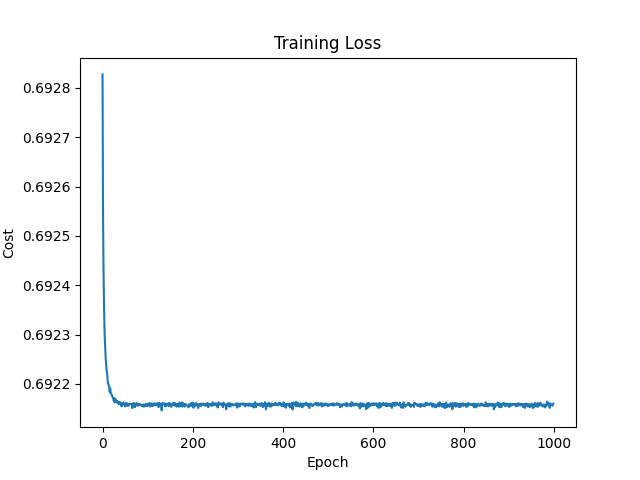
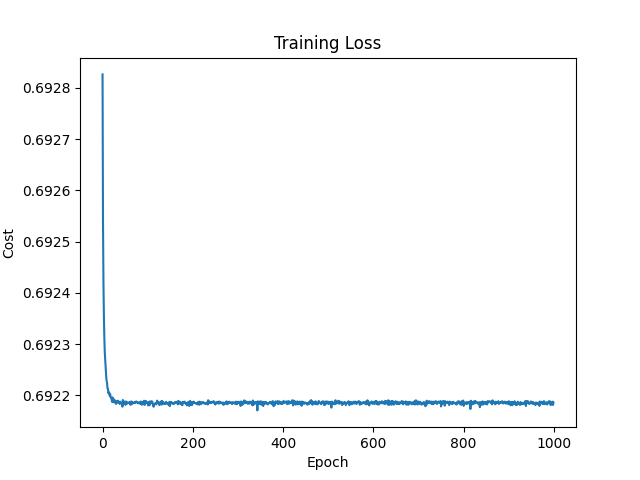
add tf idf to embeddings

diff --git a/trading_sentiment_analysis/train/model.py b/trading_sentiment_analysis/train/model.py
@@ -5,7 +5,10 @@ from trading_sentiment_analysis.train.cost import batch_gradient_descent
 from trading_sentiment_analysis.train.feature import extract_features_idf
 from trading_sentiment_analysis.train.normalization import normalize, normalize_with_mean_var
 from trading_sentiment_analysis.embeddings.glove import GloVeEmbeddings
-from trading_sentiment_analysis.embeddings.embedding_feature import extract_features_glove_batch
+from trading_sentiment_analysis.embeddings.embedding_feature import (
+    extract_features_glove_batch,
+    extract_features_glove_tfidf_batch
+)
 
 
 class RegressionModel:
@@ -186,3 +189,76 @@ class RegressionModel:
         self.mean = mean_var['mean']
         self.var = mean_var['var']
         print(f"Embedding model loaded from {model_file}")
+
+    def train_with_embeddings_tfidf(
+        self,
+        train_x,
+        train_y,
+        glove: GloVeEmbeddings,
+        idf_scores: dict,
+        learning_rate: float,
+        iterations: int,
+        batch_size: int = 1024
+    ):
+        """Train model using TF-IDF weighted embedding features.
+
+        Args:
+            train_x: List of headline strings
+            train_y: Labels (numpy array)
+            glove: Loaded GloVe embeddings
+            idf_scores: Dictionary mapping words to IDF scores
+            learning_rate: Learning rate for gradient descent
+            iterations: Number of training iterations
+            batch_size: Batch size for gradient descent
+
+        Returns:
+            (costs, weights): Training costs and final weights
+        """
+        print("Extracting TF-IDF weighted embedding features from training data...")
+
+        train_input, excluded = extract_features_glove_tfidf_batch(train_x, glove, idf_scores)
+
+        if len(excluded) > 0:
+            print(f"Excluded {len(excluded)} headlines with zero matches ({len(excluded)/len(train_x)*100:.2f}%)")
+            train_y = np.delete(train_y, excluded)
+
+        train_input, self.mean, self.var = normalize(train_input)
+
+        train_target = train_y.reshape(-1, 1)
+
+        print(f"Training input shape: {train_input.shape}")
+        print(f"Training label shape: {train_target.shape}")
+
+        costs, weights = batch_gradient_descent(
+            train_input, train_target, self.weights,
+            learning_rate, iterations, batch_size
+        )
+
+        self.weights = weights
+        return costs, weights
+
+    def predict_sentiments_with_embeddings_tfidf(
+        self,
+        headlines,
+        glove: GloVeEmbeddings,
+        idf_scores: dict
+    ):
+        """Predict sentiments using TF-IDF weighted embedding features.
+
+        Args:
+            headlines: List of headline strings
+            glove: Loaded GloVe embeddings
+            idf_scores: Dictionary mapping words to IDF scores
+
+        Returns:
+            Tuple of (predicted probabilities, excluded indices)
+        """
+        features, excluded = extract_features_glove_tfidf_batch(headlines, glove, idf_scores)
+
+        if len(excluded) > 0:
+            print(f"Warning: Excluded {len(excluded)} headlines with zero matches during prediction")
+
+        features = normalize_with_mean_var(features, self.mean, self.var)
+
+        predictions = self.predict(features)
+        return predictions, excluded

diff --git a/trading_sentiment_analysis/embeddings/test_embedding_feature.py b/trading_sentiment_analysis/embeddings/test_embedding_feature.py
@@ -6,6 +6,8 @@ from trading_sentiment_analysis.embeddings.glove import GloVeEmbeddings
 from trading_sentiment_analysis.embeddings.embedding_feature import (
     extract_features_glove,
     extract_features_glove_batch,
+    extract_features_glove_tfidf,
+    extract_features_glove_tfidf_batch,
     compute_coverage
 )
 
@@ -95,6 +97,53 @@ class EmbeddingFeatureTestCase(unittest.TestCase):
         self.assertEqual(total, 3)
         self.assertEqual(matched, 0)
         self.assertAlmostEqual(ratio, 0.0, places=2)
+
+    def test_extract_features_tfidf_normal(self):
+        """Test TF-IDF weighted feature extraction with known words."""
+        idf_scores = {'stock': 2.0, 'price': 1.5, 'rose': 1.0}
+        features = extract_features_glove_tfidf('Stock prices rose', self.glove, idf_scores)
+
+        self.assertIsNotNone(features)
+        self.assertEqual(features.shape, (1, 100))
+        self.assertEqual(features.dtype, np.float32)
+        self.assertFalse(np.all(features == 0))
+
+    def test_extract_features_tfidf_unknown_words(self):
+        """Test TF-IDF weighted extraction with all unknown words."""
+        idf_scores = {'unknown': 2.0}
+        features = extract_features_glove_tfidf('unknown xyzabc', self.glove, idf_scores)
+
+        self.assertIsNone(features)
+
+    def test_extract_features_tfidf_weighting(self):
+        """Test that TF-IDF weighting differs from mean pooling."""
+        idf_scores = {'stock': 5.0, 'price': 1.0}
+
+        mean_features = extract_features_glove('stock price', self.glove)
+        tfidf_features = extract_features_glove_tfidf('stock price', self.glove, idf_scores)
+
+        self.assertIsNotNone(mean_features)
+        self.assertIsNotNone(tfidf_features)
+        self.assertFalse(np.allclose(mean_features, tfidf_features))
+
+    def test_extract_features_tfidf_batch(self):
+        """Test batch TF-IDF weighted extraction."""
+        idf_scores = {'stock': 2.0, 'price': 1.5, 'rose': 1.0, 'fell': 1.2, 'market': 1.8}
+        headlines = ['stock rose', 'price fell', 'market']
+        features, excluded = extract_features_glove_tfidf_batch(headlines, self.glove, idf_scores)
+
+        self.assertEqual(features.shape, (3, 100))
+        self.assertEqual(len(excluded), 0)
+        self.assertEqual(features.dtype, np.float32)
+
+    def test_extract_features_tfidf_batch_with_exclusions(self):
+        """Test batch TF-IDF weighted extraction with zero-match headlines."""
+        idf_scores = {'stock': 2.0, 'rose': 1.5, 'market': 1.8}
+        headlines = ['stock rose', 'unknown xyzabc', 'market']
+        features, excluded = extract_features_glove_tfidf_batch(headlines, self.glove, idf_scores)
+
+        self.assertEqual(features.shape, (2, 100))
+        self.assertEqual(excluded, [1])
 
 
 if __name__ == '__main__':

diff --git a/trading_sentiment_analysis/train/main.py b/trading_sentiment_analysis/train/main.py
@@ -37,7 +37,8 @@ def main():
 
     feature_group = parser.add_mutually_exclusive_group()
     feature_group.add_argument('--tfidf', action='store_true', help='Use TF-IDF for feature extraction')
-    feature_group.add_argument('--embeddings', action='store_true', help='Use GloVe embeddings for feature extraction')
+    feature_group.add_argument('--embeddings', action='store_true', help='Use GloVe embeddings (mean pooling)')
+    feature_group.add_argument('--embeddings-tfidf', action='store_true', help='Use GloVe embeddings weighted by TF-IDF')
 
     parser.add_argument('--glove-path', type=str, default='data/embeddings/glove.6B.100d.txt', help='Path to GloVe embeddings file')
     parser.add_argument('--batch_size', type=int, default=1024, help='Batch size for training')
@@ -93,6 +94,45 @@ def main():
 
         print("\nSaving embedding model...")
         model.save_embeddings_model('embedding_model_weights.npy', 'embedding_mean_var.npy')
+
+    elif args.embeddings_tfidf:
+        print("=== Training with TF-IDF Weighted GloVe Embeddings ===")
+        print(f"Loading GloVe embeddings from {args.glove_path}...")
+
+        glove = GloVeEmbeddings(args.glove_path)
+
+        print("Building frequencies and computing IDF scores...")
+        freqs, doc_freqs, total_docs = build_freqs_docs(train_x, train_y)
+        idf_scores = compute_idf(doc_freqs, total_docs)
+
+        model = RegressionModel(shape=(100, 1))
+
+        print("Training model...")
+        costs, weights = model.train_with_embeddings_tfidf(
+            train_x, train_y, glove, idf_scores,
+            learning_rate=args.learning_rate,
+            iterations=args.iterations,
+            batch_size=args.batch_size
+        )
+
+        print("Model trained.")
+        print("Evaluating model...")
+
+        test_probs, excluded_indices = model.predict_sentiments_with_embeddings_tfidf(test_x, glove, idf_scores)
+
+        test_y_filtered = np.delete(test_y, excluded_indices)
+
+        metrics = calculate_metrics(test_y_filtered, test_probs)
+
+        print(f"\n=== Test Results (TF-IDF Weighted Embeddings) ===")
+        print(f"Accuracy:  {metrics['accuracy'] * 100:.2f}%")
+        print(f"Precision: {metrics['precision']:.4f}")
+        print(f"Recall:    {metrics['recall']:.4f}")
+        print(f"F1 Score:  {metrics['f1']:.4f}")
+        print(f"Loss:      {metrics['loss']:.4f}")
+
+        print("\nSaving TF-IDF weighted embedding model...")
+        model.save_embeddings_model('embedding_tfidf_model_weights.npy', 'embedding_tfidf_mean_var.npy')
 
     else:
         print("Building frequencies...")

diff --git a/trading_sentiment_analysis/embeddings/embedding_feature.py b/trading_sentiment_analysis/embeddings/embedding_feature.py
@@ -66,6 +66,80 @@ def extract_features_glove_batch(
     return features, excluded_indices
 
 
+def extract_features_glove_tfidf(headline: str, glove: GloVeEmbeddings, idf_scores: dict) -> Optional[np.ndarray]:
+    """Extract TF-IDF weighted embedding feature from headline.
+
+    Instead of simple mean pooling, weight each word embedding by its IDF score.
+    This gives more importance to discriminative words while preserving semantic information.
+
+    Args:
+        headline: News headline text
+        glove: Loaded GloVe embeddings
+        idf_scores: Dictionary mapping words to IDF scores
+
+    Returns:
+        np.ndarray of shape (1, 100) - TF-IDF weighted sum of word embeddings
+        None if no words have embeddings (zero-match exclusion)
+    """
+    words = process_text_to_words(headline)
+
+    weighted_embeddings = []
+    total_weight = 0.0
+
+    for word in words:
+        vec = glove.get_vector(word)
+        if vec is not None:
+            idf = idf_scores.get(word, 1.0)
+            weighted_embeddings.append(vec * idf)
+            total_weight += idf
+
+    if len(weighted_embeddings) == 0:
+        return None
+
+    weighted_sum = np.sum(weighted_embeddings, axis=0)
+
+    if total_weight > 0:
+        normalized_vector = weighted_sum / total_weight
+    else:
+        normalized_vector = weighted_sum
+
+    return normalized_vector[np.newaxis, :]
+
+
+def extract_features_glove_tfidf_batch(
+    headlines: List[str],
+    glove: GloVeEmbeddings,
+    idf_scores: dict
+) -> Tuple[np.ndarray, List[int]]:
+    """Extract TF-IDF weighted features for multiple headlines.
+
+    Args:
+        headlines: List of headline strings
+        glove: Loaded GloVe embeddings
+        idf_scores: Dictionary mapping words to IDF scores
+
+    Returns:
+        Tuple of (features, excluded_indices)
+        - features: np.ndarray of shape (N, 100) where N <= len(headlines)
+        - excluded_indices: List of indices of headlines that were excluded
+    """
+    features_list = []
+    excluded_indices = []
+
+    for i, headline in enumerate(headlines):
+        feature = extract_features_glove_tfidf(headline, glove, idf_scores)
+        if feature is not None:
+            features_list.append(feature[0])
+        else:
+            excluded_indices.append(i)
+
+    if len(features_list) == 0:
+        return np.zeros((0, 100), dtype=np.float32), excluded_indices
+
+    features = np.array(features_list, dtype=np.float32)
+    return features, excluded_indices
+
+
 def compute_coverage(
     headline: str,
     glove: GloVeEmbeddings

diff --git a/trading_sentiment_analysis/train/frequency.py b/trading_sentiment_analysis/train/frequency.py
@@ -43,7 +43,7 @@ def build_freqs_docs(texts, labels, word_processor=process_text_to_words):
     N = len(texts)
 
     for text, label in zip(texts, labels):
-        words = process_text_to_words(text)
+        words = word_processor(text)
         unique_words = set(words)  # **Set to count once per doc**
         for word in unique_words:
             doc_freqs[word] += 1
